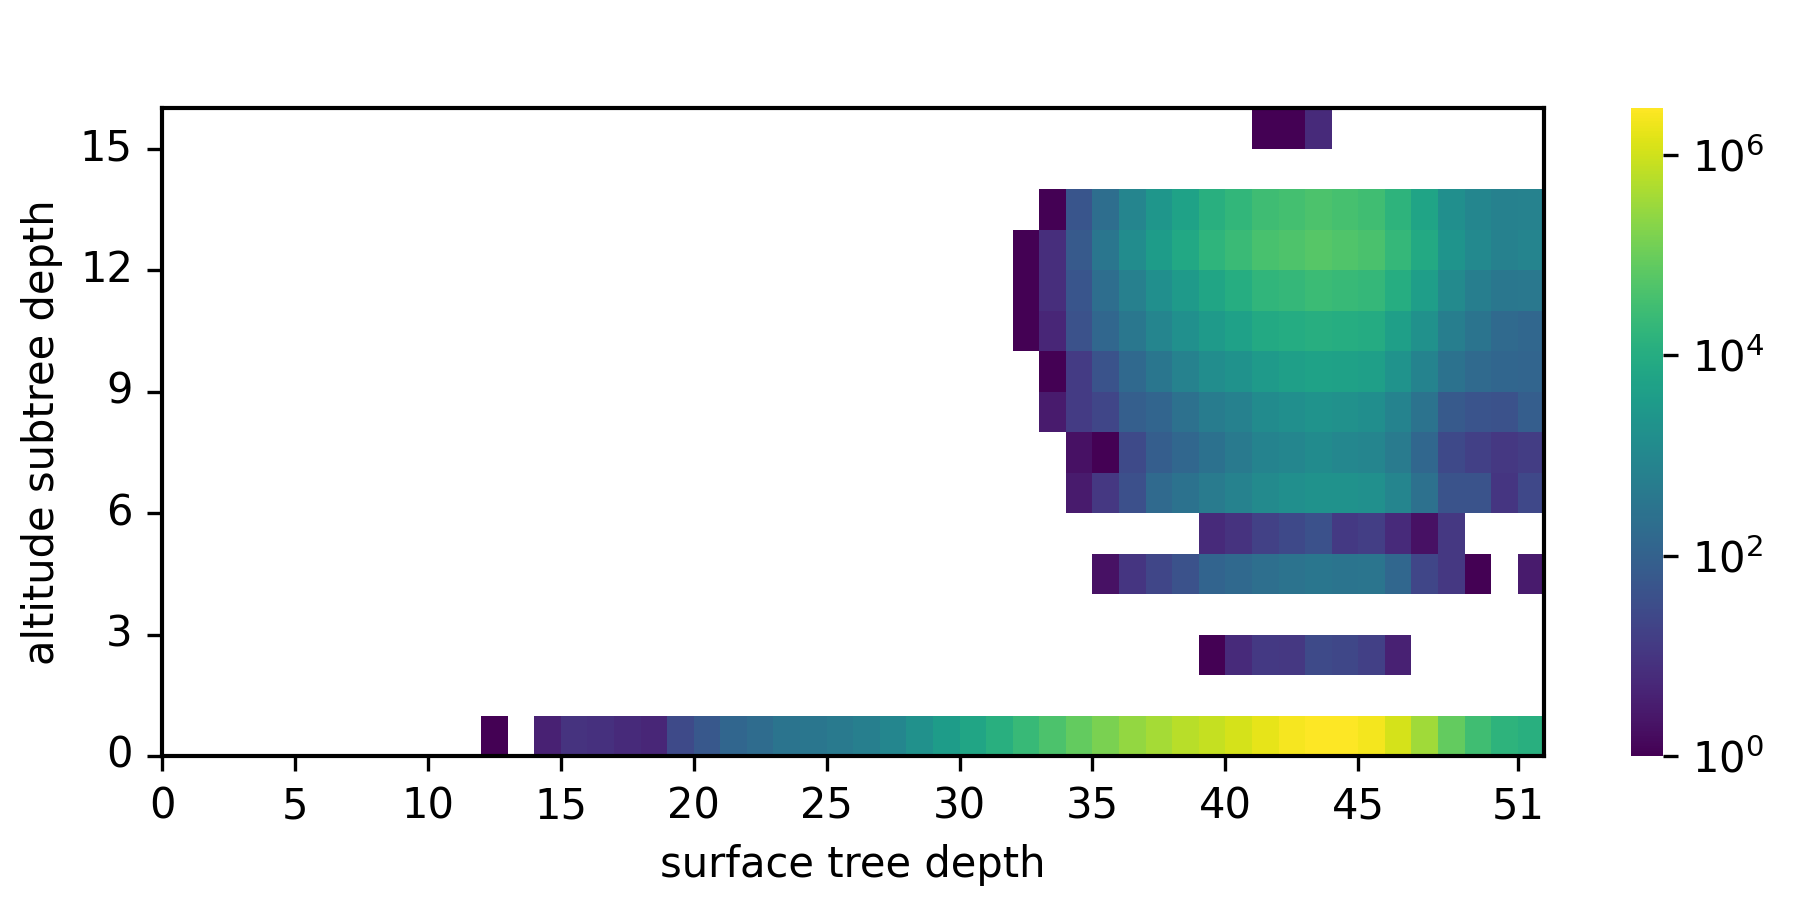
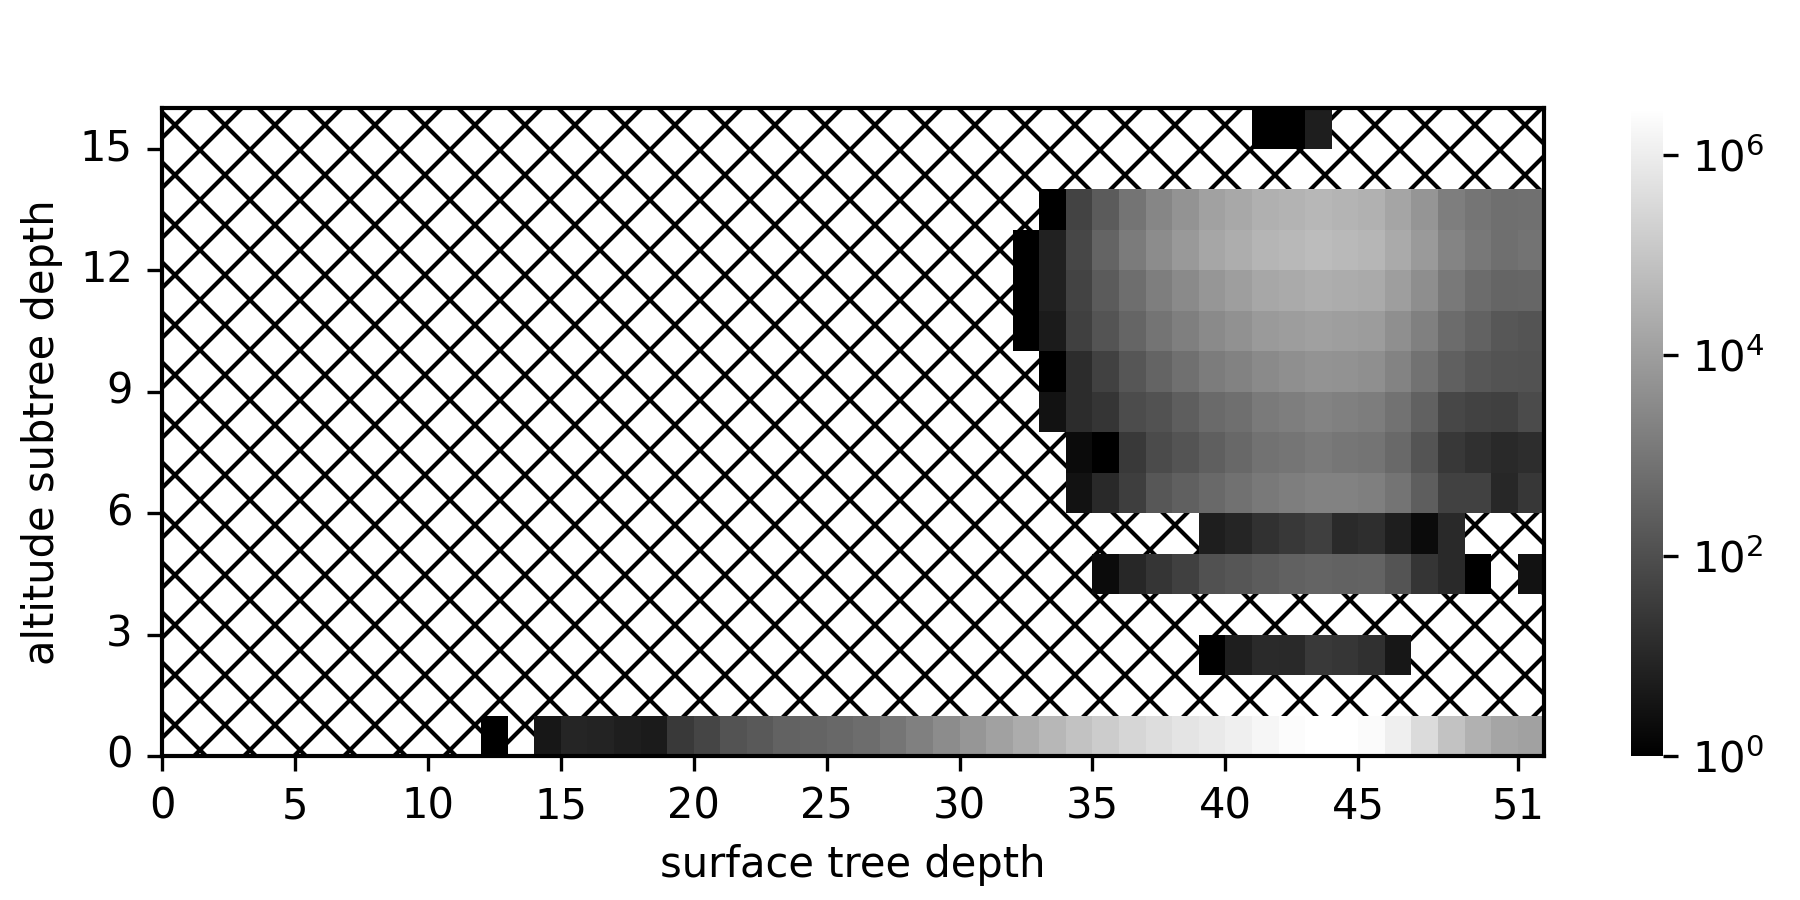
update heatmap plot

Changed region(s): [[0.0933, 0.1244, 0.8711, 0.84], [0.9022, 0.1244, 0.9333, 0.84]]

diff --git a/database/measurements/plot.py b/database/measurements/plot.py
@@ -192,8 +192,10 @@ ax = sns.heatmap(
     pivoted_data,
     ax=ax,
     norm=LogNorm(),
-    cmap="viridis"
+    cmap="gray",
 )
+
+ax.patch.set(hatch='xx', edgecolor='black')
 
 # ax.set_ylim(bottom=0, top=15)
 # ax.set_xlim(left=0, right=51)
